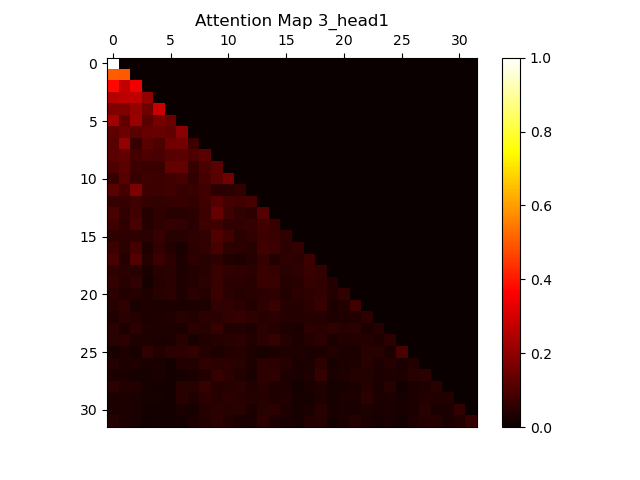
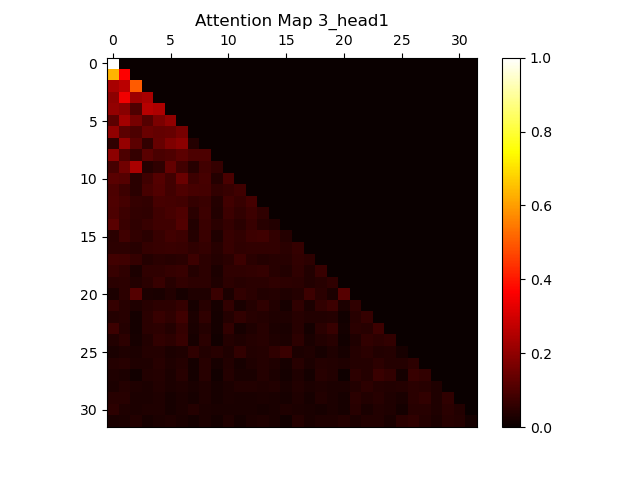
eval

diff --git a/transformer.py b/transformer.py
@@ -186,6 +186,7 @@ class TransformerDecoder(nn.Module):
             [TransformerDecoderLayer(embed_size, num_heads, ff_hidden_dim, dropout) for _ in range(num_layers)]
         )
         self.fc_out = nn.Linear(embed_size, vocab_size)
+        self.norm = nn.LayerNorm(embed_size)  # Additional normalization
         self.dropout = nn.Dropout(dropout)
 
     def forward(self, x, trg_mask, return_attention=False):
@@ -200,7 +201,8 @@ class TransformerDecoder(nn.Module):
                 attention_maps.append(attention)
             else:
                 out = layer(out, trg_mask)
-        
+            
+        out = self.norm(out)  # Apply LayerNorm here for lower perplexity
         out = self.fc_out(out)
         if return_attention:
             return out, attention_maps
